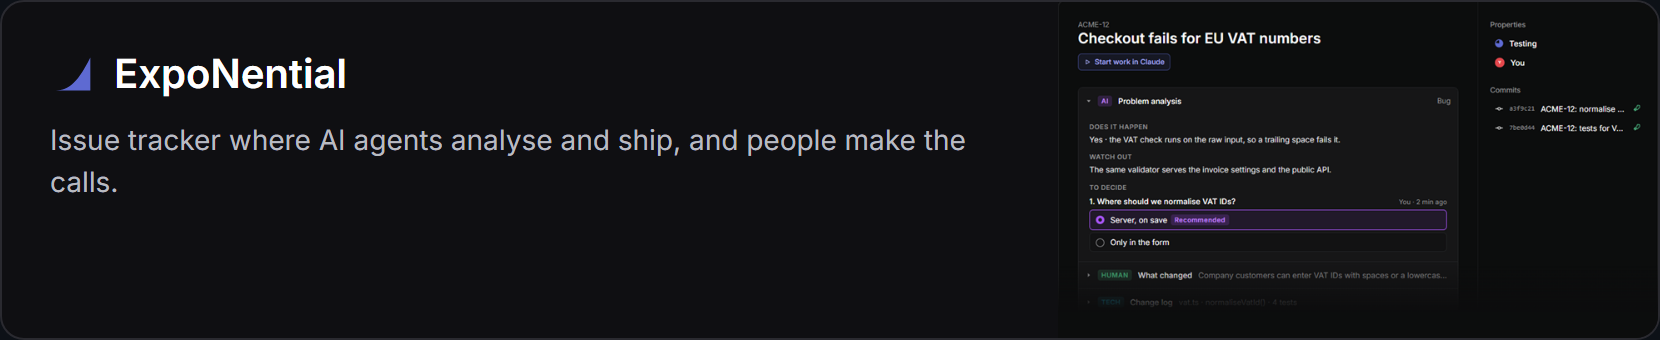
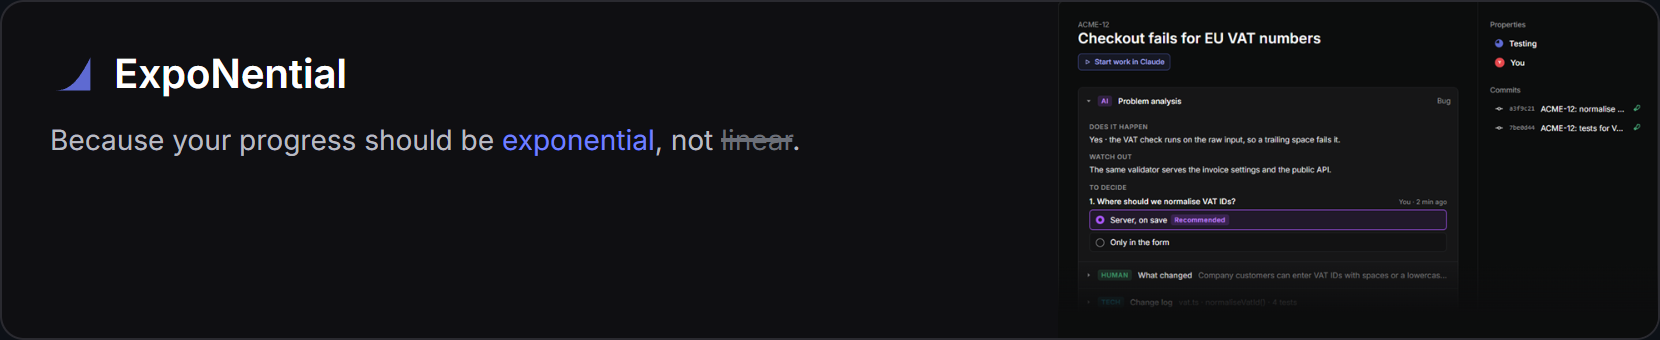
ExpoNential card: motto 'exponential, not linear'

Changed region(s): [[0.0307, 0.3824, 0.5837, 0.4706], [0.0307, 0.5, 0.0614, 0.5882]]

diff --git a/README.md b/README.md
@@ -1,6 +1,6 @@
 <a href="https://wheatlay.is-a.dev"><img src="assets/a-banner.png" alt="I build software people use every day. wheatlay.is-a.dev" width="100%"></a>
 
-<a href="https://exponential-demo.onrender.com"><img src="assets/c-expo.png" alt="ExpoNential: issue tracker where AI agents analyse and ship, and people make the calls. Live demo." width="100%"></a>
+<a href="https://exponential-demo.onrender.com"><img src="assets/c-expo.png" alt="ExpoNential: because your progress should be exponential, not linear. Live demo." width="100%"></a>
 <a href="https://wheatlay.github.io/Buffer/"><img src="assets/c-buffer.png" alt="Buffer: always-on clip recorder for Windows. Project page." width="100%"></a>
 <a href="https://najemnik-demo.onrender.com"><img src="assets/c-najemnik.png" alt="Najemnik: real cost of renting, offers side by side. Live demo." width="100%"></a>
 
